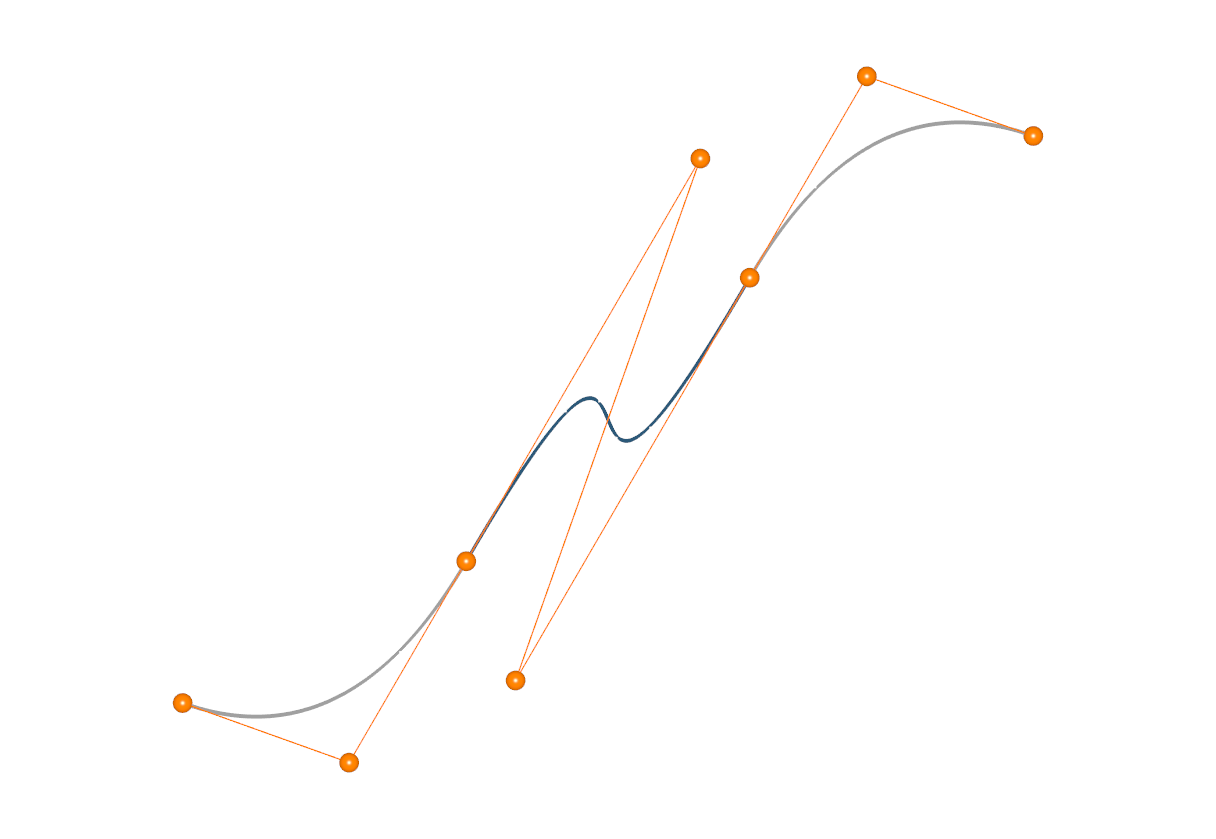
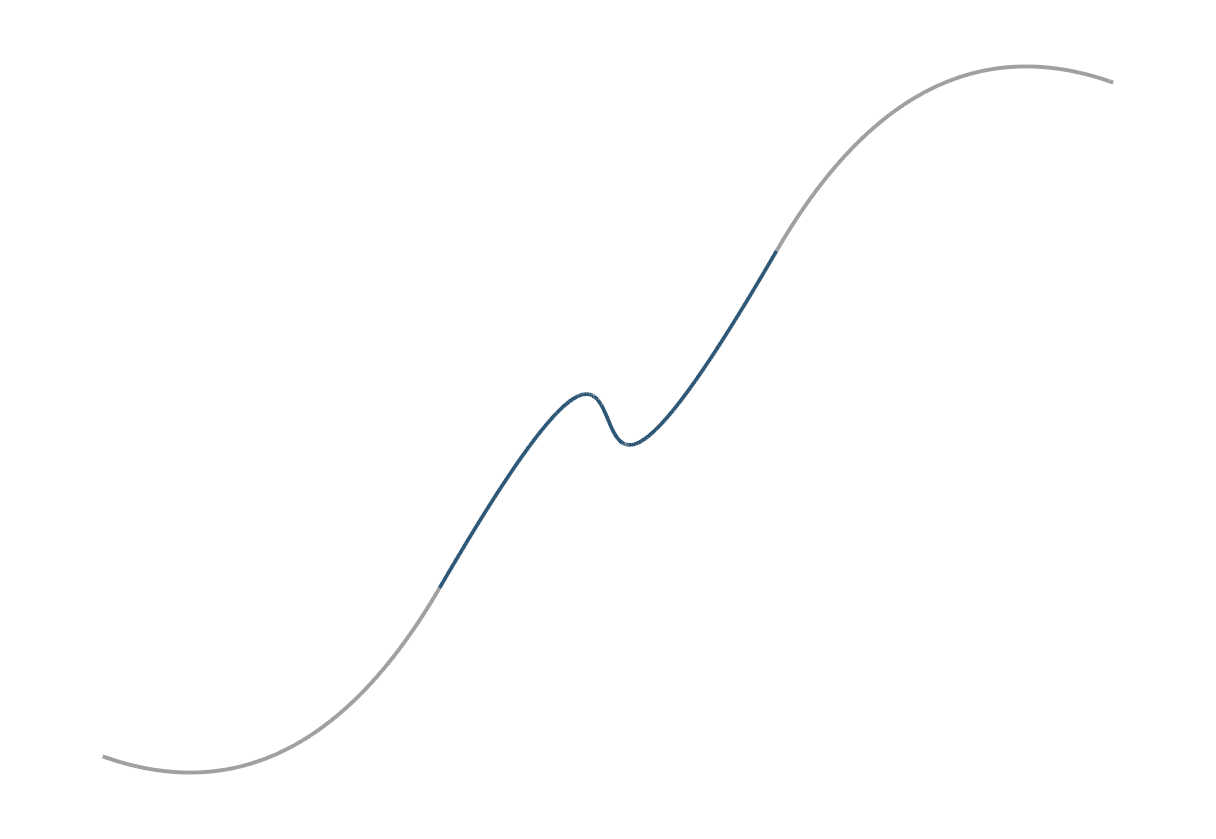
docs: add result images to the Python examples and refine the example images
- Show images below all Python examples; examples with the same geometry
  as in C++ reuse those images, the curve and modelling examples get
  their own renders.
- Show the curve network and the resulting Gordon surface side by side.
- Label the tags in the tagging image.
- Render the blend curve image without control points.

diff --git a/docs/render_example_images.py b/docs/render_example_images.py
@@ -11,18 +11,20 @@ Run with the Python of the pixi environment (needs geoml and pythonocc):
 import os
 import runpy
 
-from OCC.Core.AIS import AIS_Shape
-from OCC.Core.Aspect import Aspect_POM_Fill, Aspect_TOL_SOLID
+from OCC.Core.AIS import AIS_Shape, AIS_TextLabel
+from OCC.Core.Aspect import Aspect_POM_Fill, Aspect_TODT_SUBTITLE, Aspect_TOL_SOLID
 from OCC.Core.BRep import BRep_Builder
 from OCC.Core.BRepAdaptor import BRepAdaptor_Curve, BRepAdaptor_Surface
-from OCC.Core.BRepBuilderAPI import BRepBuilderAPI_MakeEdge, BRepBuilderAPI_MakeFace
+from OCC.Core.BRepBuilderAPI import BRepBuilderAPI_MakeEdge, BRepBuilderAPI_MakeFace, BRepBuilderAPI_Transform
 from OCC.Core.BRepPrimAPI import BRepPrimAPI_MakeSphere
 from OCC.Core.GeomAbs import GeomAbs_BezierCurve
-from OCC.Core.Graphic3d import Graphic3d_MaterialAspect, Graphic3d_NOM_PLASTIC
+from OCC.Core.Graphic3d import (Graphic3d_HTA_CENTER, Graphic3d_MaterialAspect, Graphic3d_NOM_PLASTIC,
+                                 Graphic3d_VTA_CENTER, Graphic3d_ZLayerId_Topmost)
+from OCC.Core.TCollection import TCollection_ExtendedString
 from OCC.Core.Prs3d import Prs3d_LineAspect
 from OCC.Core.Quantity import Quantity_Color, Quantity_TOC_sRGB
 from OCC.Core.TopoDS import TopoDS_Compound
-from OCC.Core.gp import gp_Pnt
+from OCC.Core.gp import gp_Pnt, gp_Trsf, gp_Vec
 from OCC.Display.OCCViewer import Viewer3d
 
 from geoml import pygeoml
@@ -109,6 +111,23 @@ class Scene:
         ais.SetColor(colour(point_colour))
         ais.Attributes().SetFaceBoundaryDraw(False)
         self._show(ais, fine=False)  # a fine mesh of many spheres takes very long
+
+    def label(self, text, point, height=30):
+        """Show `text` in a white box at `point`, always in front of the geometry."""
+        ais = AIS_TextLabel()
+        ais.SetText(TCollection_ExtendedString(text, True))
+        ais.SetPosition(point)
+        ais.SetHeight(height)
+        ais.SetColor(colour(BLACK))
+        ais.SetFont("Arial")
+        ais.SetHJustification(Graphic3d_HTA_CENTER)
+        ais.SetVJustification(Graphic3d_VTA_CENTER)
+        aspect = ais.Attributes().TextAspect().Aspect()
+        aspect.SetDisplayType(Aspect_TODT_SUBTITLE)
+        aspect.SetColorSubTitle(colour("#ffffff"))
+        ais.SetZLayer(Graphic3d_ZLayerId_Topmost)
+        self.context.Display(ais, False)
+        self.context.Deactivate(ais)
 
     def save(self, name, direction=(1.0, -1.0, 1.0), zoom=0.85):
         """Save the scene, seen from `direction` with z pointing up."""
@@ -198,8 +217,6 @@ def render_blend_curve():
     scene = Scene()
     scene.edges([start_edge, end_edge], GREY_CURVE)
     scene.edges([blend_edge], BLUE_CURVE)
-    for e in (start_edge, end_edge, blend_edge):
-        control_polygon(scene, curve_poles(e), 0.07)
     scene.save("blend_curve_example.png", (0.0, 0.0, 1.0))
 
 
@@ -242,11 +259,24 @@ def render_curve_network():
     surface = face(pygeoml.interpolate_curve_network(
         containers.geomcurve_vector(u_curves), containers.geomcurve_vector(v_curves), 1e-1))
 
-    scene = Scene()
-    scene.faces([surface], edge_colour=None)
-    scene.edges([edge(c) for c in u_curves + v_curves], GREY, 3.0)
-    control_net(scene, surface_poles(surface), 0.05)
-    scene.save("curve_network_example.png", (1.0, -0.4, 0.3))
+    # The curve network on the left, the Gordon surface moved to the right.
+    # For the view direction d = (1, -0.4, 0.3) with z up, "right" on the
+    # screen is the direction (-d) x z = (0.4, 1, 0).
+    view = (1.0, -0.4, 0.3)
+    shift = gp_Vec(0.4, 1.0, 0.0).Normalized().Multiplied(6.5)
+    trsf = gp_Trsf()
+    trsf.SetTranslation(shift)
+    moved_surface = BRepBuilderAPI_Transform(surface, trsf, True).Shape()
+    moved_poles = [[p.Translated(shift) for p in row] for row in surface_poles(surface)]
+
+    scene = Scene(1600, 650)
+    curves = [edge(c) for c in u_curves + v_curves]
+    scene.edges(curves, BLUE_CURVE, 3.0)
+    for c in curves:
+        control_polygon(scene, curve_poles(c), 0.07)
+    scene.faces([moved_surface], edge_colour=None)
+    control_net(scene, moved_poles, 0.07)
+    scene.save("curve_network_example.png", view, zoom=0.95)
 
 
 # --- Subshapes: the Python versions build the same geometry as C++ ---------
@@ -303,10 +333,45 @@ def render_tagging():
     scene.faces(occ_shapes(others))
     scene.faces(occ_shapes(bore), GREY, BLACK, 1.0)
     scene.edges(occ_shapes(top_edges))
+    scene.label('"top"', gp_Pnt(7.5, 2.0, 10.0))
+    scene.label('"bore"', gp_Pnt(5.0, 5.0, 10.0))
     scene.save("shape_tagging_example.png", (1.0, 0.7, 0.9))
 
 
+# --- Python examples with their own geometry --------------------------------
+# The other Python examples build the same geometry as the C++ examples and
+# use the same images.
+
+def render_python_curve():
+    ex = run_example("python_curve_example.py")
+    curve = ex["edge"]
+    scene = Scene()
+    scene.edges([curve], BLUE_CURVE)
+    control_polygon(scene, curve_poles(curve), 0.015)
+    scene.label('"guide-curve"', gp_Pnt(0.3, 0.55, 0.0))
+    scene.save("python_curve_example.png", (0.0, 0.0, 1.0))
+
+
+def render_python_modeling():
+    ex = run_example("python_modeling_example.py")
+    # The cut on the left, the union moved to the right. For the view
+    # direction d = (-1, -1, 1) with z up, "right" on the screen is (-d) x z = (1, -1, 0).
+    shift = gp_Vec(1.0, -1.0, 0.0).Normalized().Multiplied(20.0)
+    trsf = gp_Trsf()
+    trsf.SetTranslation(shift)
+    union = BRepBuilderAPI_Transform(ex["union_shape"].shape(), trsf, True).Shape()
+
+    scene = Scene(1600, 700)
+    scene.faces([ex["cut_shape"].shape()])
+    scene.faces([union])
+    scene.label("box - cylinder", gp_Pnt(5.0, 5.0, -9.0))
+    scene.label("box + cylinder", gp_Pnt(5.0, 5.0, -9.0).Translated(shift))
+    scene.save("python_modeling_example.png", (-1.0, -1.0, 1.0), zoom=1.3)
+
+
 if __name__ == "__main__":
+    render_python_curve()
+    render_python_modeling()
     render_curve()
     render_blend_curve()
     render_surface()

diff --git a/docs/python_examples.rst b/docs/python_examples.rst
@@ -17,12 +17,26 @@ Curves and Shapes
    :language: python
    :caption: Interpolate a curve and wrap it as a Shape
 
+.. figure:: _static/examples/python_curve_example.png
+   :alt: Result of python curve example
+   :width: 500px
+   :align: center
+
+   The interpolated B-spline curve (blue) with its control points (orange) and its meta tag.
+
 Blend Curve
 -----------
 
 .. literalinclude:: examples/python_blend_curve_example.py
    :language: python
    :caption: Create a blend curve between two edges
+
+.. figure:: _static/examples/blend_curve_example.png
+   :alt: Result of blend curve example
+   :width: 500px
+   :align: center
+
+   The blend curve (blue) connects the two input curves (grey) with G1 continuity.
 
 Curve Network Surface
 ---------------------
@@ -31,12 +45,26 @@ Curve Network Surface
    :language: python
    :caption: Interpolate a surface through a curve network
 
+.. figure:: _static/examples/curve_network_example.png
+   :alt: Result of curve network example
+   :width: 700px
+   :align: center
+
+   Left: the curve network (blue) with the control points of its curves. Right: the resulting Gordon surface (blue) with its control points (orange).
+
 Modelling Operations
 --------------------
 
 .. literalinclude:: examples/python_modeling_example.py
    :language: python
    :caption: Create and combine history-aware shapes
+
+.. figure:: _static/examples/python_modeling_example.png
+   :alt: Result of python modelling example
+   :width: 700px
+   :align: center
+
+   Left: the box with the cylinder subtracted. Right: the union of box and cylinder.
 
 Selecting, Tracking and Tagging Subshapes
 -----------------------------------------
@@ -66,6 +94,13 @@ Selecting subshapes with predicates
    :language: python
    :caption: Select subshapes with predicates
 
+.. figure:: _static/examples/shape_selection_example.png
+   :alt: Result of shape selection example
+   :width: 500px
+   :align: center
+
+   The box with the selected edges of the top face and the vertices of the side faces on the bottom face (orange).
+
 Tracking subshapes through modelling operations
 ^^^^^^^^^^^^^^^^^^^^^^^^^^^^^^^^^^^^^^^^^^^^^^^
 
@@ -73,9 +108,23 @@ Tracking subshapes through modelling operations
    :language: python
    :caption: Track subshapes with history predicates
 
+.. figure:: _static/examples/shape_history_example.png
+   :alt: Result of shape history example
+   :width: 500px
+   :align: center
+
+   The result after both modelling steps: faces that descend from the drill or the corner tool (grey) and the edges of the face that descends from the original top face (orange).
+
 Tagging subshapes and tag tracks
 ^^^^^^^^^^^^^^^^^^^^^^^^^^^^^^^^
 
 .. literalinclude:: examples/python_shape_tagging_example.py
    :language: python
    :caption: Tag subshapes and use tag tracks
+
+.. figure:: _static/examples/shape_tagging_example.png
+   :alt: Result of shape tagging example
+   :width: 500px
+   :align: center
+
+   The result after step 2 with its tags: the face tagged "bore" (grey) and the face tagged "top" with its edges (orange).

diff --git a/docs/cpp_examples.rst b/docs/cpp_examples.rst
@@ -50,7 +50,7 @@ to edges and builds a transition curve between them.
    :width: 500px
    :align: center
 
-   The blend curve (blue) connects the two input curves (grey) with G1 continuity. The control points of all curves are shown in orange.
+   The blend curve (blue) connects the two input curves (grey) with G1 continuity.
 
 Surfaces
 --------
@@ -89,10 +89,10 @@ given tolerance.
 
 .. figure:: _static/examples/curve_network_example.png
    :alt: Result of curve network example
-   :width: 500px
+   :width: 700px
    :align: center
 
-   The Gordon surface (blue) interpolates the curve network (grey). Its control points are shown in orange.
+   Left: the curve network (blue) with the control points of its curves. Right: the resulting Gordon surface (blue) with its control points (orange).
 
 .. _shapes-examples:
 
@@ -212,4 +212,4 @@ operations and are a simple way to give subshapes a persistent name.
    :width: 500px
    :align: center
 
-   The result after step 2: the face tagged "bore" (grey) and the edges of the face tagged "top" (orange).
+   The result after step 2 with its tags: the face tagged "bore" (grey) and the face tagged "top" with its edges (orange).
